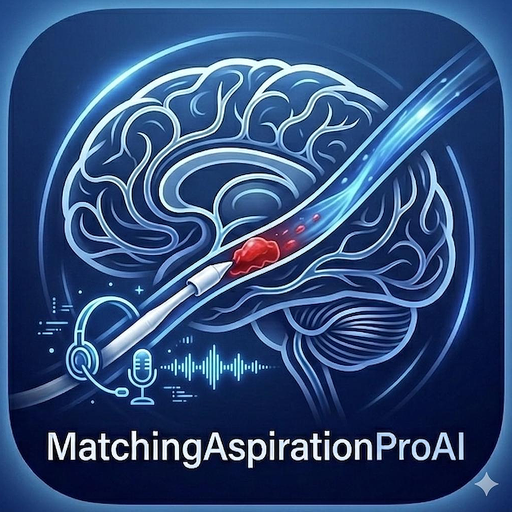
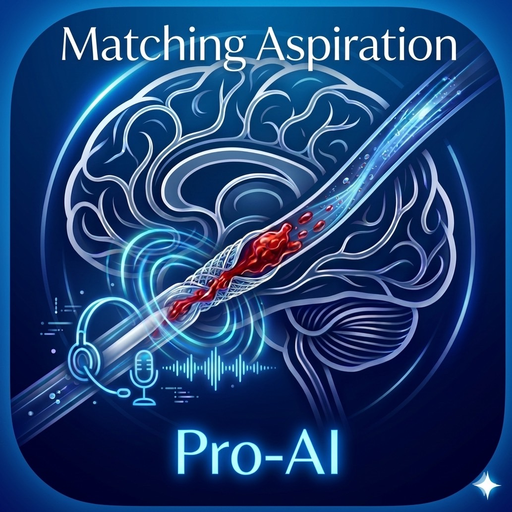
Add files via upload

diff --git a/index.html b/index.html
@@ -13,7 +13,7 @@
 <meta name="theme-color" content="#0a0e1a">
 <meta name="apple-mobile-web-app-capable" content="yes">
 <meta name="apple-mobile-web-app-status-bar-style" content="black-translucent">
-<title>MatchingAspirationProAI v2.6</title>
+<title>MatchingAspirationProAI v2.7</title>
 <style>
 :root{--bg:#0a0e1a;--sur:#111827;--sur2:#1a2234;--bdr:#1e2d45;--ac:#00c8ff;--ac2:#0080cc;--warn:#f59e0b;--danger:#ef4444;--ok:#10b981;--txt:#e2e8f0;--muted:#64748b;--dim:#94a3b8;--purple:#a78bfa;--orange:#fb923c;}
 *{box-sizing:border-box;margin:0;padding:0;}
@@ -220,7 +220,7 @@ select.fs option{background:var(--sur2);}
   <div class="logoWrap">
     <div class="logo">MatchingAspirationProAI</div>
   </div>
-  <div class="sub">Secure Access — v2.5 Voice Guide</div>
+  <div class="sub">Secure Access — v2.7 Voice Guide</div>
   <div class="lbox">
     <div class="nb"><div class="nt">⚠ ご使用前に必ずお読みください</div>本ツールは<strong style="color:#e2eaf5;">医療機器ではありません</strong>。薬機法第２条第４項の「医療機器」に該当しません。脳血管内治療に従事する<strong style="color:#e2eaf5;">医療従事者向けの学習・参照目的ツール</strong>です。必ず最新のIFUを確認のうえ使用してください。</div>
     <label class="ar" for="agCk"><input type="checkbox" id="agCk" onchange="onAgree()"><span>本ツールが医療機器でないこと、参照・学習目的のみに使用すること、最終判断は術者が最新IFUを参照したうえで行うことに同意します。</span></label>
@@ -271,7 +271,7 @@ function onAgree(){
       <h1>MatchingAspirationProAI</h1>
       <small>吸引カテーテル参照ツール（脳血管内治療補助用）</small>
     </div>
-    <div class="hver"><div style="color:var(--ok);font-size:.6rem;">✅ 非医療機器</div><div>v2.5 Voice</div></div>
+    <div class="hver"><div style="color:var(--ok);font-size:.6rem;">✅ 非医療機器</div><div>v2.7 Voice</div></div>
   </div>
 
   <div class="tabs">
@@ -482,14 +482,21 @@ function fmtD(iso){
 }
 
 // ── LOGIN ──
-function doLogin(){
+// SHA-256ハッシュ: パスワードを平文でソースコードに残さない
[1 lines of base64/hex data omitted]
+async function _hash(s){
+  const buf=await crypto.subtle.digest('SHA-256',new TextEncoder().encode(s));
+  return Array.from(new Uint8Array(buf)).map(b=>b.toString(16).padStart(2,'0')).join('');
+}
+async function doLogin(){
   if(!document.getElementById('agCk').checked){
     document.getElementById('emAg').style.display='block';
     document.getElementById('emPw').style.display='none';
     return;
   }
   const pw=document.getElementById('pwIn').value;
-  if(pw==='dvx'){
+  const h=await _hash(pw);
+  if(h===_PH){
     document.getElementById('pgLogin').style.display='none';
     document.getElementById('app').style.display='block';
     loadCats();
@@ -546,7 +553,7 @@ function upd(){
   const rows=sorted.map(c=>{
     const hc=c.note?'hw':'hn';
     const mc=(c.method||'').includes('用手')?'mh':'mp';
-    const lw=(c.totLenNum>=150)?'<div class="lw">⚠ Passerelle21推奨</div>':'';
+    const lw=(c.totLenNum!=null&&c.totLenNum>=150)?'<div class="lw">⚠ Passerelle21推奨</div>':'';
     const src=c.source?'<span class="sp" title="'+esc(c.source)+'">'+esc(c.source)+'</span>':'<span style="color:var(--muted);font-size:.6rem;">未設定</span>';
     return `<tr>
       <td><span class="pn">${esc(c.name)}</span></td>
@@ -572,8 +579,7 @@ function rfC1(){
   const sel=document.getElementById('c1');
   const prev=sel.value;
   sel.innerHTML='<option value="">-- 選択してください --</option>';
-  [...cats].sort((a,b)=>b.tip-a.tip).forEach((c,_)=>{
-    const idx=cats.indexOf(c);
+  cats.map((c,idx)=>({c,idx})).sort((a,b)=>b.c.tip-a.c.tip).forEach(({c,idx})=>{
     const o=document.createElement('option');
     o.value=idx; o.textContent=c.name; sel.appendChild(o);
   });
@@ -788,7 +794,7 @@ function delC(idx){
 
 <script>
 /* =====================================================================
-   MatchingAspirationProAI - Voice Guide v2.6
+   MatchingAspirationProAI - Voice Guide v2.7
    臨床現場での音声のみ操作を想定し、認識能力・揺れ吸収・自動再試行・
    フォールバックUIを大幅に強化したモジュール。
    ===================================================================== */
@@ -1907,9 +1913,9 @@ function delC(idx){
   function hookLogin(){
     const originalDoLogin=window.doLogin;
     if(typeof originalDoLogin!=='function') return;
-    window.doLogin=function(){
+    window.doLogin=async function(){
       const before=byId('app')?.style.display;
-      originalDoLogin.apply(this, arguments);
+      await originalDoLogin.apply(this, arguments);
       const after=byId('app')?.style.display;
       if(after==='block' && before!=='block' && !flow.welcomeStarted){
         flow.welcomeStarted=true;
@@ -1978,7 +1984,7 @@ function delC(idx){
     if(hdr && !document.getElementById('maHeaderOpen')){
       const wrap=document.createElement('div');
       wrap.className='ma-badge-wrap';
-      wrap.innerHTML='<span class="ma-badge">VOICE GUIDE · v2.6</span><button id="maHeaderOpen" class="ma-header-btn primary">AIアシスタント</button>';
+      wrap.innerHTML='<span class="ma-badge">VOICE GUIDE · v2.7</span><button id="maHeaderOpen" class="ma-header-btn primary">AIアシスタント</button>';
       hdr.appendChild(wrap);
     }
 

diff --git a/README.md b/README.md
@@ -1,154 +1,64 @@
-# MatchingAspirationProAI
+# Matching Aspiration Pro-AI
 
-吸引カテーテル参照・同軸判定の音声ガイドツール  
-（脳血管内治療従事者向け学習・参照目的 / **医療機器ではありません**）
+吸引カテーテル参照 × コアキシャル音声ガイドツール（脳血管内治療補助用）
 
-バージョン: **v2.7 (Barge-in Edition)**
+## 概要
 
----
-
-## 主な特徴
-
-- 🎙 **完全ハンズフリー音声操作**
-  ログイン後、AIが自動でガイドを開始し、選択モード／同軸モードを音声で案内します。
-- 🔁 **Barge-in（割り込み）機能（v2.7 新搭載）**
-  AIが読み上げている最中でも、術者が **「確認」** と声をかければ即座に読み上げを停止し、次の指示を受け付けます。読み上げ中も常にマイクが開いているため、操作が止まりません。
-- 🧠 **誤認識耐性の強い辞書マッチング**
-  デバイス名 / Yコネ名 / 血管径 の同音異義語・揺れに対応（Dice 係数 + 数字シグネチャ）。
-- 📱 **PWA 対応**
-  ホーム画面に追加するとフルスクリーン起動。アイコンは「MatchingAspirationProAI」専用デザイン。
-- ☁ **Netlify / Cloudflare Pages 両対応**
-  ルート構成 + SPA リダイレクトを両方に同梱。
-
----
-
-## 機能の流れ
-
-1. **ログイン後、AIが自動起動**
-   「選択確認ですか？ 同軸確認ですか？」と問いかけます。
-2. **「選択」と答えた場合**
-   血管径を聞き取り → 候補カテーテルを画面表示しつつ「候補1は…、候補2は…」と読み上げ。
-3. **「同軸」と答えた場合**
-   - 1本目のカテーテルを聞き取り → 自動選択
-   - 2本目候補を提示・読み上げ → 選択
-   - Yコネの使用有無 → Yコネ名 → 自動反映
-   - 先端突出長を音声と画面で確認
-4. **Barge-in（割り込み）**
-   AIが話している間でも以下のいずれかを発話すると、即座に割り込み受付に切り替わります。
-   - 「確認」「カクニン」「確認お願いします」
-   - 「次」「ストップ」「キャンセル」「聞いて」「割り込み」「修正」
-   - 明確な次指示（例:「血管径 2.1 ミリ」「SALVA71」「候補2」「富士」など）
-
----
+脳血管内治療において使用する吸引カテーテルの選択をサポートし、  
+AI音声ガイド機能を搭載したWebアプリケーションです。  
+PWA（Progressive Web App）対応のため、ホーム画面に追加してネイティブアプリのように利用できます。
 
 ## ファイル構成
 
 ```
-.
-├── index.html              # 本体（単一ファイルアプリ）
-├── 404.html                # SPA フォールバック（index と同一内容）
-├── manifest.json           # PWA マニフェスト（MatchingAspirationProAI）
-├── netlify.toml            # Netlify 設定
-├── _redirects              # Cloudflare Pages / Netlify 共通リダイレクト
-├── _headers                # Cloudflare Pages / Netlify 共通ヘッダ
-├── icons/
-│   ├── icon-192.png        # PWA 192px
-│   ├── icon-512.png        # PWA 512px
-│   ├── apple-touch-icon.png# iOS ホーム画面用 180px
-│   ├── icon-master.png     # 1024px マスター
-│   └── icon.svg            # 代替 SVG
-└── README.md               # このファイル
+├── index.html          # メインアプリケーション（v2.7）
+├── manifest.json       # PWAマニフェスト
+├── netlify.toml        # Netlify 設定ファイル
+├── 404.html            # 404エラーページ
+├── README.md           # 本ファイル
+└── icons/
+    ├── apple-touch-icon.png   # iOS ホーム画面アイコン (180×180)
+    ├── icon-192.png           # Android ホーム画面アイコン (192×192)
+    ├── icon-512.png           # Android スプラッシュ用アイコン (512×512)
+    ├── icon-master.png        # マスターアイコン (1024×1024)
+    └── icon.svg               # SVGアイコン
 ```
 
----
+## デプロイ
 
-## Netlify へのデプロイ
+GitHub リポジトリと連携し、以下のサービスへ自動デプロイしています。
 
-### GitHub 連携（推奨）
+- **Netlify**
+- **Cloudflare Pages**
 
-1. GitHub リポジトリにこの ZIP の中身を **ルート直下** に配置してプッシュ。
-2. Netlify ダッシュボードで **Add new site → Import an existing project**。
-3. ビルド設定:
-   - **Build command**: 空欄
-   - **Publish directory**: `.`
-4. Deploy を実行。`netlify.toml` が自動で読み込まれます。
+`main` ブランチへのプッシュで自動的にデプロイが実行されます。
 
-### 手動デプロイ
+## PWA（ホーム画面追加）
 
-ZIP を展開した中身（`index.html` が見える状態）を Netlify の **Deploys → drag & drop** に投入してください。
+iOS Safari・Android Chrome から「ホーム画面に追加」することで、  
+アプリとして起動できます。アイコンには本ツール専用デザイン（Pro-AI版）が設定されています。
 
----
+> **Note:** キャッシュが残っている場合は、一度ホーム画面から削除して再追加すると新しいアイコンが反映されます。
 
-## Cloudflare Pages へのデプロイ
+## パスワード変更方法
 
-### GitHub 連携（推奨）
-
-1. Cloudflare ダッシュボード → **Pages → Create application → Connect to Git**。
-2. リポジトリを選択し、以下の設定で作成:
-   - **Framework preset**: `None`
-   - **Build command**: 空欄（不要）
-   - **Build output directory**: `/`（または空欄）
-3. Deploy を実行。`_redirects` と `_headers` が自動で適用されます。
-
-### 直接アップロード
-
-1. **Pages → Create application → Direct Upload**。
-2. ZIP を展開した中身一式をドラッグ&ドロップ。
-
----
-
-## ローカル動作確認
+認証パスワードはSHA-256ハッシュで管理されています。  
+`index.html` 内の `_PH` 定数を新しいパスワードのSHA-256ハッシュ値に更新してください。
 
 ```bash
-# Python 標準サーバで簡易確認
-python3 -m http.server 8080
-# → http://127.0.0.1:8080/ を開いて確認
+# ハッシュ生成例（ターミナル）
+echo -n "新しいパスワード" | shasum -a 256
 ```
 
----
+## 更新履歴
 
-## ログイン
+| バージョン | 内容 |
+|---|---|
+| v2.7 | ホーム画面アイコンをPro-AI専用デザインに変更（全サイズ更新） |
+| v2.7 | **[Security]** パスワードのハードコードを廃止、SHA-256ハッシュ比較に変更 |
+| v2.7 | **[Bug Fix]** バージョン表記の不一致を修正（v2.5/v2.6混在 → v2.7に統一） |
+| v2.7 | **[Bug Fix]** `totLenNum` が null の場合の比較処理にnullチェックを追加 |
+| v2.7 | **[Bug Fix]** カテーテル選択ドロップダウンのインデックス取得ロジックを修正 |
+| v2.7 | **[Bug Fix]** `hookLogin` を async doLogin に対応させ音声ガイド連携を安定化 |
+| v2.7 | **[PWA]** manifest `short_name` をホーム画面表示向けに短縮（"MA Pro-AI"） |
 
-初期パスワード: `dvx`
-（クライアント検証用。`index.html` 内 `doLogin()` で変更可能）
-
----
-
-## ブラウザ要件
-
-| ブラウザ | 音声入力 | 音声出力 | 備考 |
-| --- | --- | --- | --- |
-| Safari (iOS 16+) | ✅ | ✅ | ホーム画面追加で全画面表示 |
-| Chrome (Android / Desktop) | ✅ | ✅ | 推奨 |
-| Edge (Desktop) | ✅ | ✅ | 動作確認済 |
-| Firefox | ⚠ | ✅ | Web Speech API のサポートが限定的 |
-
-マイク権限は **「許可」** に設定してください。  
-HTTPS 必須（Netlify / Cloudflare Pages は標準で HTTPS 化されます）。
-
----
-
-## Barge-in の挙動詳細（技術ノート）
-
-- `aiState.bargeIn` が `true` の間、`SpeechRecognition` は常時 `continuous=true` で稼働。
-- `speak()` 開始と同時にマイクをオープン。
-- `rec.onresult` 内で interim transcript を監視し、`INTERRUPT_WORDS` か `looksLikeNextCommand()` 該当時に `speechSynthesis.cancel()` を即時実行。
-- 「確認」のみの発話の場合は、最後の問いかけを再提示せず「はい、お話しください。」とだけ返して次指示を待ちます。
-- `setInterval(4s)` でマイク稼働を監視し、止まっていたら再起動。
-- Barge-in は右下パネルの **🟢 Barge-in: ON** ボタンで OFF にも切り替え可能。
-
----
-
-## 注意
-
-本ツールは **薬機法上の医療機器ではありません**。  
-脳血管内治療に従事する医療従事者の **参照・学習目的** で提供しています。  
-最終的な機器選択判断は、必ず術者が最新の IFU（添付文書）を参照のうえ行ってください。
-
----
-
-## バージョン履歴
-
-- **v2.7 (current)** — Barge-in（割り込み）機能、Cloudflare Pages 対応、README 同梱。
-- v2.6 — ProAI ブランディング、ホーム画面アイコン刷新、認識辞書強化。
-- v2.5 — 音声ガイド初期実装、Netlify 配布。
